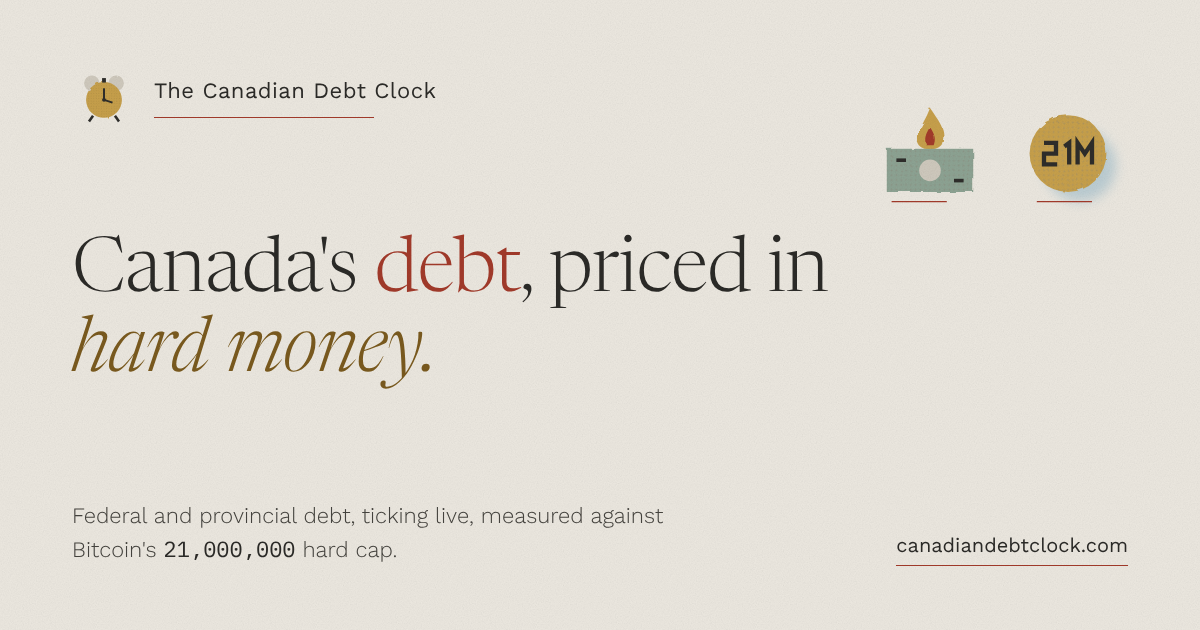
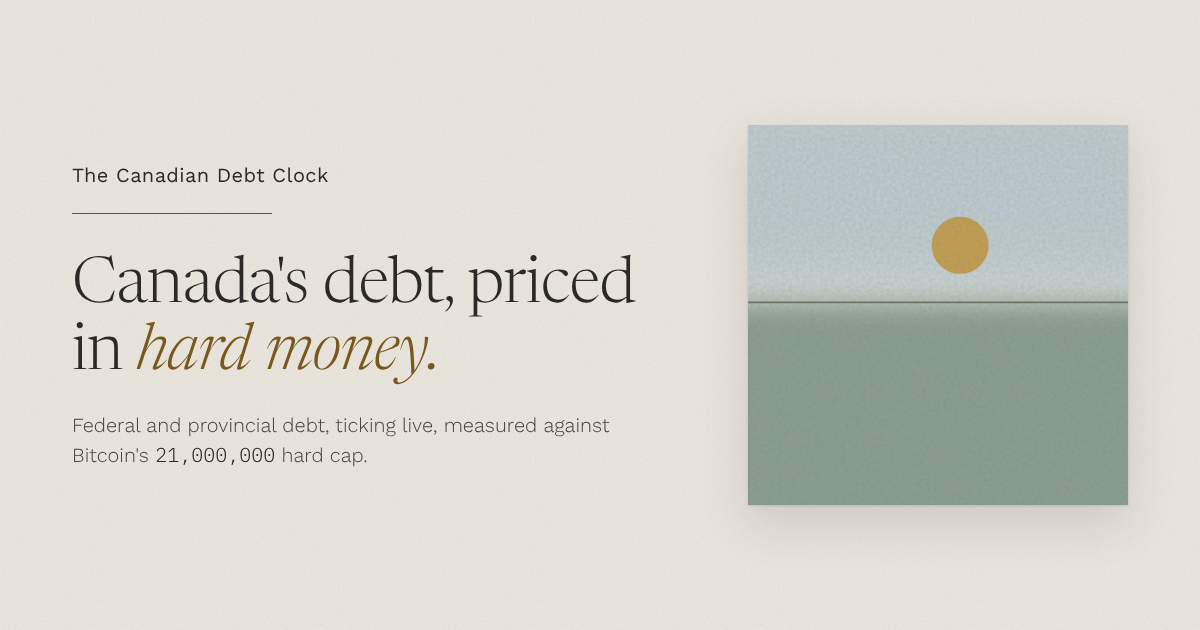
Ambient II: open space, hairlines and abstract plates
The restyle still read as cartoonish, so this goes further:

- Every pictogram doodle is replaced by an abstract plate (blurred colour
  fields, grain, one quiet mark), shared with limestonecitybitcoin.com.
- The alarm clock mark is gone; the header is the name and a hairline.
- Hero: one enormous, light ink number beside a horizon plate. The
  interest figure stays red; red is saved for the figure that matters.
- No boxes or tinted panels: stats sit in hairline columns, sections are
  numbered (01, 02...) with a plate and a serif title, like a tracklist.
- Thinner province bars and Bitcoin ring; IBM Plex Mono Light added.
- New favicon/app icons (horizon plate), clock removed from the share
  card, new social image. Offline cache bumped to cdc-v5.

Claude-Session: https://claude.ai/code/session_01GoqY8AW6L5mHxMdhMHU2tz

diff --git a/css/styles.css b/css/styles.css
@@ -1039,3 +1039,161 @@ strong, b { font-weight: 500; }
 @media (prefers-reduced-motion: reduce) {
   .card, .btn, .tr-go, .share-btn { transition: none; }
 }
+
+/* =============================================================================
+   AMBIENT II — open space, hairlines, abstract plates
+   No boxes or tinted panels: sections are separated by hairlines and marked
+   with a small abstract "plate" and a track number, like a record sleeve.
+   ============================================================================= */
+
+@font-face { font-family: "IBM Plex Mono"; src: url("../assets/fonts/ibm-plex-mono-light.woff2") format("woff2"); font-weight: 300; font-display: swap; }
+
+body { counter-reset: track; }
+
+/* Plates: small abstract covers */
+.hero-plate,
+.head-doodle {
+  display: block;
+  flex: none;
+  box-shadow: 0 1px 2px rgba(43, 42, 39, 0.14), 0 14px 36px rgba(43, 42, 39, 0.12);
+}
+
+/* ---------- Header ---------- */
+.brand-text { gap: 6px; }
+.status-pill { border: 0; padding: 6px 0; }
+
+/* ---------- Hero: one quiet, enormous number beside a plate ---------- */
+.hero,
+.interest-band {
+  display: flex;
+  align-items: center;
+  gap: clamp(32px, 6vw, 72px);
+  text-align: left;
+  background: transparent;
+  border: 0;
+  border-top: 1px solid var(--line);
+  border-radius: 0;
+  box-shadow: none;
+  padding: clamp(48px, 8vw, 96px) 0 clamp(40px, 7vw, 80px);
+}
+.hero-text { flex: 1 1 auto; min-width: 0; display: flex; flex-direction: column; gap: 18px; }
+.hero-plate { width: clamp(180px, 24vw, 300px); height: auto; aspect-ratio: 1 / 1; }
+.interest-band .hero-plate { width: clamp(150px, 18vw, 220px); }
+
+.hero-label, .interest-label { margin: 0; color: var(--muted); }
+.hero-number,
+.interest-number {
+  font-weight: 300;
+  letter-spacing: -0.035em;
+  line-height: 1;
+}
+.hero-number { font-size: clamp(26px, 6.4vw, 80px); }
+.hero-number.debt { color: var(--ink); }
+.interest-number { font-size: clamp(26px, 5vw, 60px); color: var(--debt); }
+.hero-rule { display: block; width: 96px; height: 1px; background: var(--debt); }
+.hero-sub, .interest-sub { margin: 0; text-align: left; max-width: 620px; }
+.hero-context { justify-content: flex-start; margin: 0; font-weight: 300; }
+.interest-band { border-top-color: var(--border); }
+.interest-sub .accent { color: var(--debt); }
+
+/* ---------- Stat rows: hairline columns instead of cards ---------- */
+.grid { gap: 0 28px; }
+.card,
+.panel.austrian .card,
+.panel.bitcoin .card,
+.btc-card {
+  background: transparent;
+  border: 0;
+  border-top: 1px solid var(--border);
+  border-radius: 0;
+  box-shadow: none;
+  padding: 22px 0 26px;
+}
+.card:hover, .btc-card:hover { box-shadow: none; border-top-color: var(--ink); }
+.value { font-weight: 300; font-size: clamp(22px, 2.6vw, 28px); }
+.value.warn { color: var(--ink); }
+
+/* ---------- Sections: numbered, open, separated by a hairline ---------- */
+.panel,
+.panel.provinces,
+.panel.truereturn,
+.panel.austrian,
+.panel.bitcoin {
+  background: transparent;
+  border: 0;
+  border-top: 1px solid var(--line);
+  border-radius: 0;
+  box-shadow: none;
+  padding: clamp(40px, 6vw, 64px) 0 0;
+  margin-top: clamp(56px, 8vw, 96px);
+  counter-increment: track;
+}
+.panel-head { position: relative; max-width: 820px; margin-bottom: 36px; }
+.ph-title {
+  display: grid;
+  grid-template-columns: auto 1fr;
+  align-items: end;
+  column-gap: 32px;
+  row-gap: 14px;
+  margin-bottom: 18px;
+}
+.head-doodle { width: 120px; height: 120px; grid-row: span 2; }
+.ph-title::after {
+  content: counter(track, decimal-leading-zero);
+  grid-column: 2;
+  grid-row: 1;
+  align-self: end;
+  font-family: var(--font-num);
+  font-size: 13px;
+  color: var(--debt);
+}
+.panel-head h2,
+.panel.austrian .panel-head h2,
+.panel.bitcoin .panel-head h2 {
+  grid-column: 2;
+  grid-row: 2;
+  color: var(--ink);
+  font-size: clamp(30px, 4.4vw, 46px);
+}
+.btc-mark { color: var(--ink); }
+.panel-head p { max-width: 640px; line-height: 1.75; }
+
+/* ---------- Provinces: thin lines ---------- */
+.prov-track { height: 6px; background: var(--paper-2); }
+.prov-name, .prov-val { font-weight: 300; }
+
+/* ---------- True Return ---------- */
+.tr-chart-wrap { padding: 18px 0 0; border-top: 1px solid var(--border); }
+.tr-stat, .tr-stat.m2, .tr-stat.btc { background: transparent; border-top: 1px solid var(--border); padding: 14px 0; }
+.tr-stat.m2 { border-top-color: var(--debt); }
+.tr-stat.btc { border-top-color: var(--btc); }
+.tr-v { font-weight: 300; }
+
+/* ---------- Bitcoin ring: a fine line ---------- */
+.ring-track, .ring-progress { stroke-width: 3; }
+.ring-pct { font-weight: 300; color: var(--ink); }
+
+/* ---------- Scarcity ---------- */
+.scarcity-note { background: transparent; border-top: 1px solid var(--border); padding-left: 0; padding-right: 0; }
+.gp-val { font-weight: 300; }
+.scarcity-punch [data-metric] { font-weight: 300; }
+
+/* ---------- Phones ---------- */
+@media (max-width: 700px) {
+  .hero, .interest-band { flex-direction: column-reverse; align-items: flex-start; }
+  .interest-band { flex-direction: column; }
+  .hero-plate { width: 160px; }
+  .interest-band .hero-plate { width: 120px; }
+  .ph-title { column-gap: 20px; }
+  .head-doodle { width: 88px; height: 88px; }
+}
+@media (max-width: 540px) {
+  .tagline, .panel-head, .card, .hero-text { text-align: left; }
+  .ph-title { justify-content: start; }
+}
+.value.debt { color: var(--debt); }
+@media (max-width: 540px) {
+  .topbar { justify-content: space-between; align-items: flex-start; }
+  .brand-text { align-items: flex-start; }
+  .status-pill { text-align: right; max-width: 45%; }
+}

diff --git a/index.html b/index.html
@@ -53,7 +53,6 @@
     <!-- ===================== HEADER ===================== -->
     <header class="topbar">
       <div class="brand">
-        <img class="brand-doodle" src="assets/clock-mark.svg" alt="" aria-hidden="true" width="52" height="52" />
         <span class="brand-text"><span class="brand-name">The Canadian Debt Clock</span><span class="brand-rule" aria-hidden="true"></span><span class="brand-sub">Priced in hard money</span></span>
       </div>
       <div id="live-status" class="status-pill seed">● connecting…</div>
@@ -66,18 +65,21 @@
 
     <!-- ===================== HERO ===================== -->
     <section class="hero">
-      <img class="hero-doodle" src="assets/doodles/city-hall.svg" alt="" aria-hidden="true" />
-      <div class="hero-label">CANADA · FEDERAL DEBT</div>
-      <div class="hero-number debt" data-metric="federalDebt" data-odometer>$0</div>
-      <div class="hero-sub">
-        Federal + provincial net debt:
-        <span class="accent" data-metric="totalGovDebt" data-format="money">$0</span>
+      <div class="hero-text">
+        <div class="hero-label">CANADA · FEDERAL DEBT</div>
+        <div class="hero-number debt" data-metric="federalDebt" data-odometer>$0</div>
+        <span class="hero-rule" aria-hidden="true"></span>
+        <div class="hero-sub">
+          Federal + provincial net debt:
+          <span class="accent" data-metric="totalGovDebt" data-format="money">$0</span>
+        </div>
+        <div class="hero-context">
+          <span><span data-metric="federalDebtToGDP" data-format="pct">0%</span> of GDP (federal)</span>
+          <span class="dot">·</span>
+          <span><span data-metric="totalDebtToGDP" data-format="pct">0%</span> of GDP (all govts)</span>
+        </div>
       </div>
-      <div class="hero-context">
-        <span><span data-metric="federalDebtToGDP" data-format="pct">0%</span> of GDP (federal)</span>
-        <span class="dot">·</span>
-        <span><span data-metric="totalDebtToGDP" data-format="pct">0%</span> of GDP (all govts)</span>
-      </div>
+      <img class="hero-plate" src="assets/doodles/city-hall.svg" alt="" aria-hidden="true" width="300" height="300" />
     </section>
 
     <!-- ===================== CORE GRID ===================== -->
@@ -115,7 +117,8 @@
 
     <!-- ===================== INTEREST BAND ===================== -->
     <section class="interest-band">
-      <img class="hero-doodle" src="assets/doodles/burning-banknote.svg" alt="" aria-hidden="true" />
+      <img class="hero-plate" src="assets/doodles/burning-banknote.svg" alt="" aria-hidden="true" width="220" height="220" />
+      <div class="hero-text">
       <div class="interest-label">GOVERNMENT DEBT INTEREST · PAID THIS FISCAL YEAR</div>
       <div class="interest-number" data-metric="combinedInterestYTD" data-odometer>$0</div>
       <div class="interest-sub">
@@ -126,6 +129,7 @@
         but the right to keep borrowing. For context, Ottawa spends
         <span id="ottawa-compare"><span class="accent">$80&nbsp;billion</span> on Old Age Security</span>
         per year.
+      </div>
       </div>
     </section>
 

diff --git a/js/sharecard.js b/js/sharecard.js
@@ -24,27 +24,6 @@ const BTC_INK = "#7A5A1E";
 const MONO = '"IBM Plex Mono", "Courier New", monospace';
 const SANS = '"Work Sans", -apple-system, Segoe UI, Roboto, sans-serif';
 
-// The cut-paper alarm clock: flat shapes, no outlines (matches clock-mark.svg).
-function drawClock(ctx, cx, cy, r) {
-  ctx.save();
-  ctx.translate(cx, cy);
-  const s = r / 28; // authored around a face of r=28
-  ctx.scale(s, s);
-  ctx.fillStyle = "#CFC9BD"; // limestone bells
-  ctx.beginPath(); ctx.arc(-19, -26, 12, 0, Math.PI * 2); ctx.fill();
-  ctx.beginPath(); ctx.arc(19, -26, 12, 0, Math.PI * 2); ctx.fill();
-  ctx.fillStyle = BTC; // gold face
-  ctx.beginPath(); ctx.arc(0, 0, 28, 0, Math.PI * 2); ctx.fill();
-  ctx.fillStyle = INK; // hands, hub, button, feet
-  ctx.fillRect(-1.6, -18, 3.2, 19);
-  ctx.save(); ctx.rotate((18 * Math.PI) / 180); ctx.fillRect(-1, -1.6, 15, 3.2); ctx.restore();
-  ctx.beginPath(); ctx.arc(0, 0, 3, 0, Math.PI * 2); ctx.fill();
-  ctx.fillRect(-3, -34, 6, 7);
-  ctx.save(); ctx.translate(-20, 29); ctx.rotate((35 * Math.PI) / 180); ctx.fillRect(-2, -5.5, 4, 11); ctx.restore();
-  ctx.save(); ctx.translate(20, 29); ctx.rotate((-35 * Math.PI) / 180); ctx.fillRect(-2, -5.5, 4, 11); ctx.restore();
-  ctx.restore();
-}
-
 export function drawCard(ctx, snap) {
   const debtPerCitizen = snap.debtPerCitizen;
   const sats = snap.yourShareInSats;
@@ -64,10 +43,11 @@ export function drawCard(ctx, snap) {
   ctx.textAlign = "center";
 
   // Brand: clock doodle + wordmark
-  drawClock(ctx, SIZE / 2 - 268, 146, 30);
   ctx.fillStyle = INK;
-  ctx.font = `400 40px ${SANS}`;
-  ctx.fillText("The Canadian Debt Clock", SIZE / 2 + 26, 163);
+  ctx.font = `400 38px ${SANS}`;
+  ctx.fillText("The Canadian Debt Clock", SIZE / 2, 150);
+  ctx.fillStyle = DEBT;
+  ctx.fillRect(SIZE / 2 - 150, 172, 300, 2);
 
   // Label
   ctx.fillStyle = MUTED;
@@ -78,7 +58,7 @@ export function drawCard(ctx, snap) {
 
   // Debt per citizen (red, mono)
   ctx.fillStyle = DEBT;
-  ctx.font = `400 116px ${MONO}`;
+  ctx.font = `300 116px ${MONO}`;
   ctx.fillText(money(debtPerCitizen), SIZE / 2, 400);
 
   // Divider
@@ -92,7 +72,7 @@ export function drawCard(ctx, snap) {
 
   // Sats (gold, huge, mono)
   ctx.fillStyle = BTC_INK;
-  ctx.font = `400 154px ${MONO}`;
+  ctx.font = `300 154px ${MONO}`;
   ctx.fillText(intl(sats), SIZE / 2, 705);
   ctx.fillStyle = BTC_INK;
   ctx.font = `300 58px ${SANS}`;

diff --git a/sw.js b/sw.js
@@ -6,7 +6,7 @@
 //  StatCan) are cross-origin and pass straight through, never cached.
 // =============================================================================
 
-const CACHE = "cdc-v4";
+const CACHE = "cdc-v5";
 const CORE = [
   "/",
   "/index.html",
@@ -23,7 +23,7 @@ const CORE = [
   "/js/tip.js",
   "/js/truereturn.js",
   "/assets/doodles/line-chart-down.svg",
-  "/assets/clock-mark.svg",
+  "/assets/fonts/ibm-plex-mono-light.woff2",
   "/assets/grain.svg",
   "/assets/fonts/work-sans.woff2",
   "/assets/fonts/newsreader.woff2",
